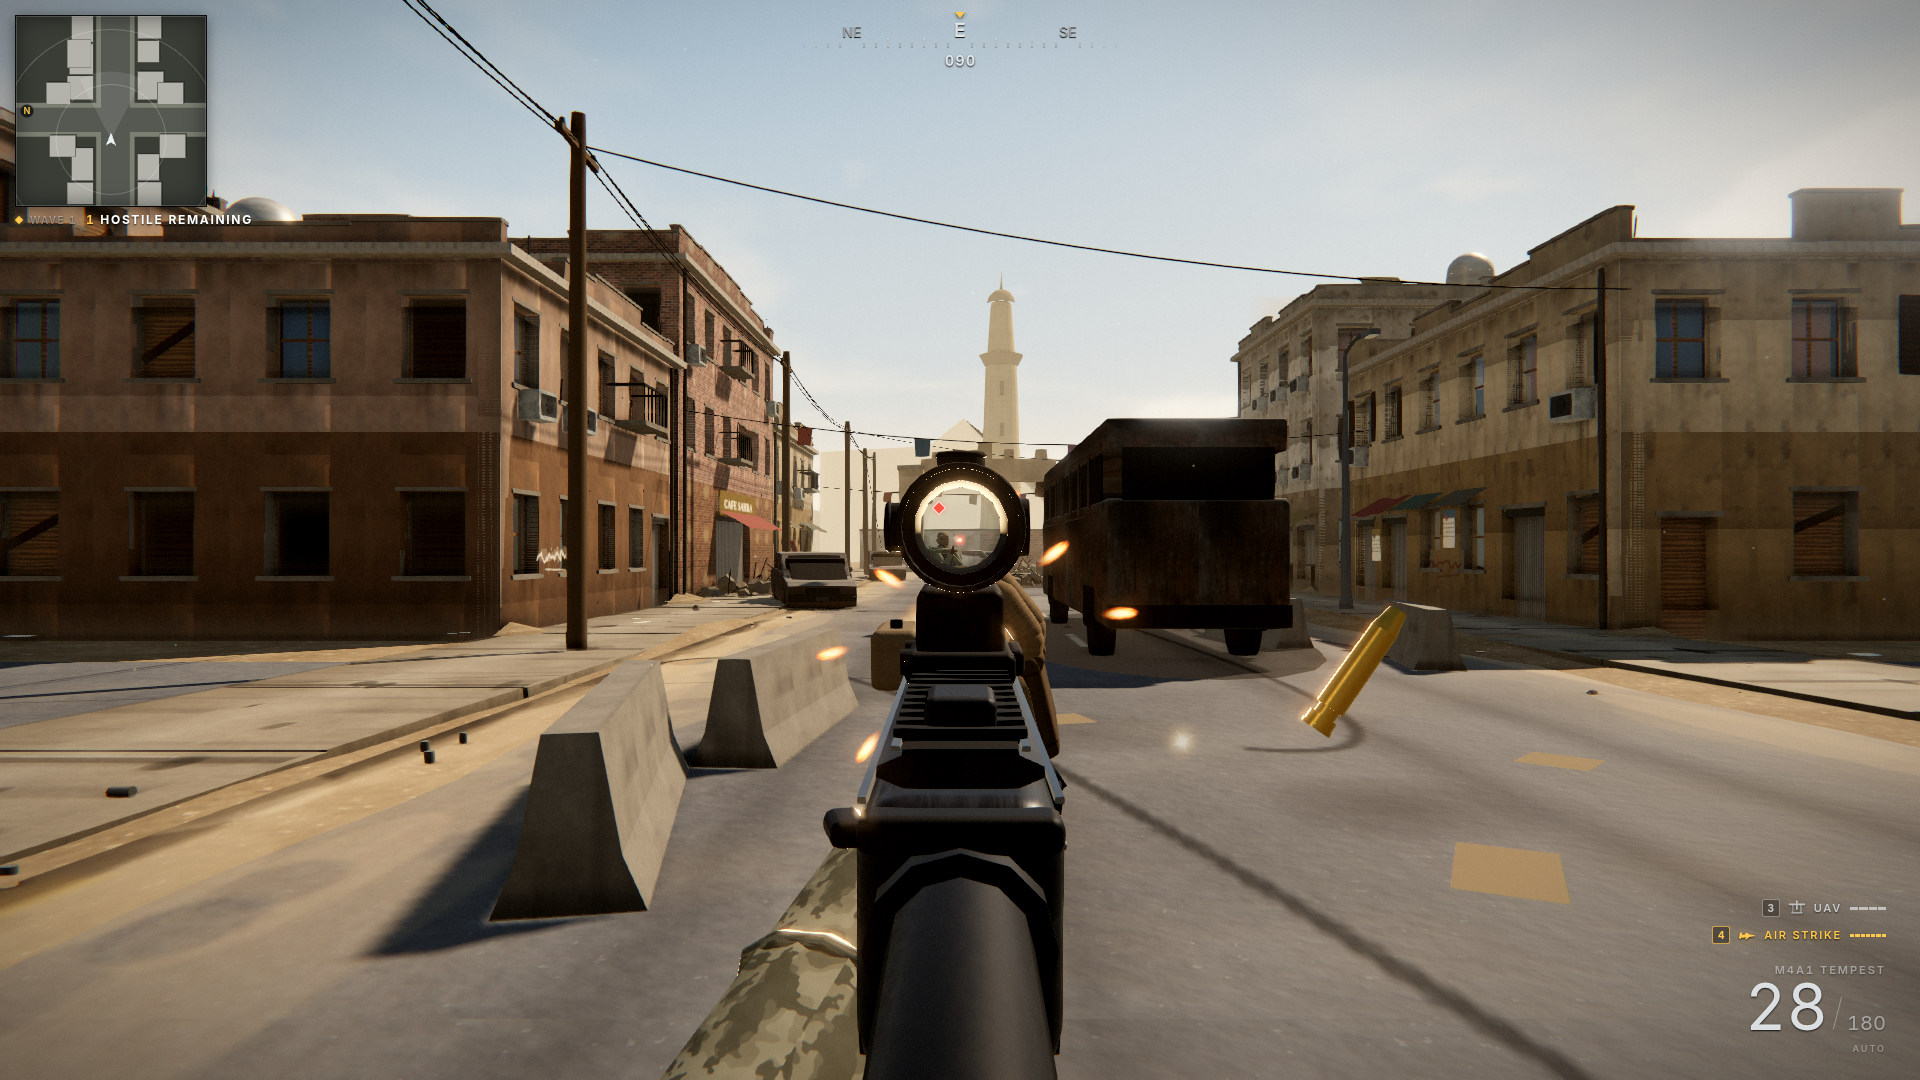
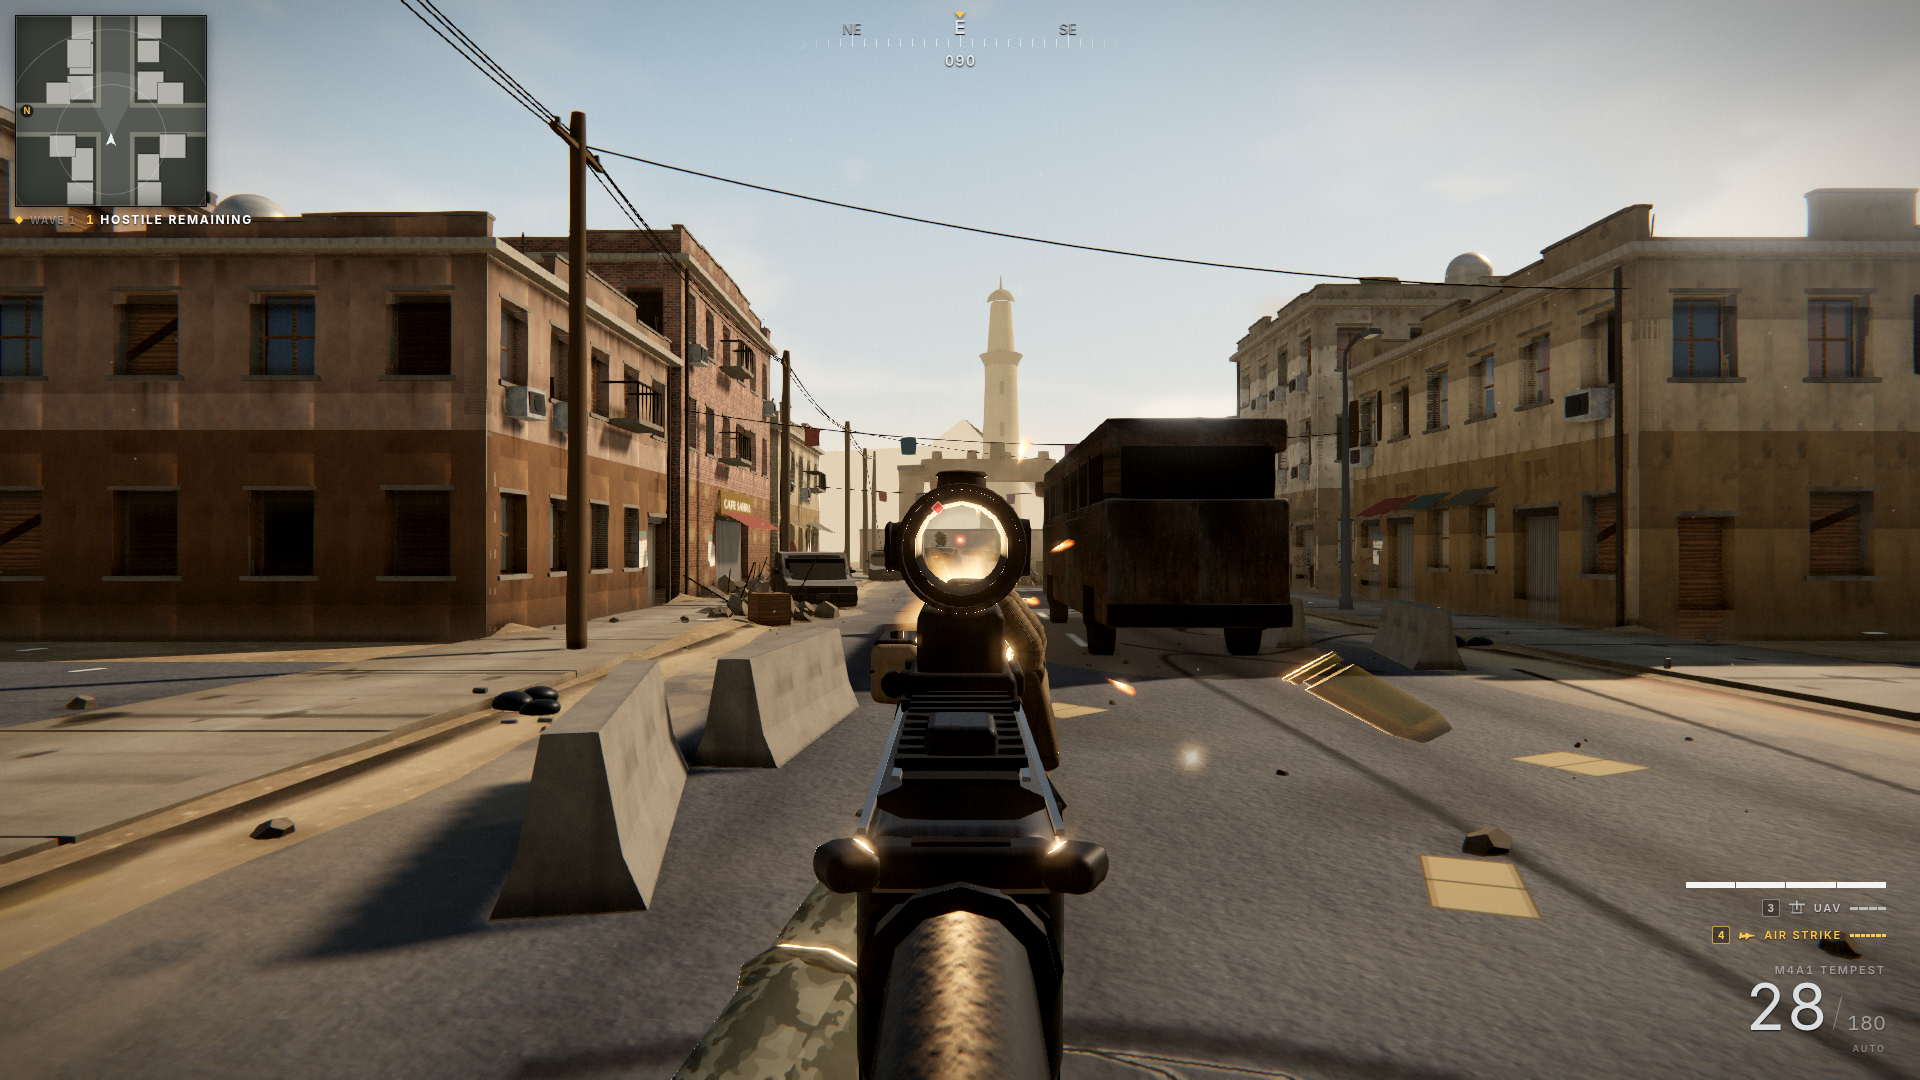
Near-camera fade for world smoke/fire pools, photo-safe killfeed lifecycle, sunlit enemies staging

diff --git a/src/fx/particles.js b/src/fx/particles.js
@@ -25,9 +25,11 @@ const BILLBOARD_VERT = /* glsl */`
   varying float vAge;
   varying float vStretch;
   varying float vRand;
+  varying float vNear;
   uniform float uFogDensity;
   uniform float uVelStretch;
   uniform float uDt;
+  uniform float uNearFade;
   void main() {
     vUv = uv;
     vColor = aColor;
@@ -37,6 +39,9 @@ const BILLBOARD_VERT = /* glsl */`
     // randomness (alpha level, length jitter, bend) with no new attribute.
     vRand = fract(sin(aRot * 12.9898) * 43758.5453);
     vec4 mv = modelViewMatrix * vec4(aCenter, 1.0);
+    // Opt-in near-camera fade: a smoke/fire sprite drifting through the
+    // camera must dissolve, not wash the whole frame with a salmon film.
+    vNear = mix(1.0, smoothstep(1.1, 3.2, length(mv.xyz)), uNearFade);
     vec2 corner;
     if (abs(aStretch) > 0.001) {
       // Elongate along the particle's CURRENT screen-space velocity, so
@@ -101,6 +106,7 @@ const BILLBOARD_FRAG = /* glsl */`
   varying float vAge;
   varying float vStretch;
   varying float vRand;
+  varying float vNear;
 
   // Blackbody-ish ramp: soot -> deep ember red -> 2000K orange -> hot
   // yellow -> a WHITE-HOT core pushed well past 1.0, so the inner ~25% of
@@ -139,6 +145,7 @@ const BILLBOARD_FRAG = /* glsl */`
       col = t.rgb * vColor.rgb;
       a = t.a * vColor.a;
     }
+    a *= vNear;
     if (abs(vStretch) > 0.001) {
       // Per-streak alpha level + broken lengthwise modulation: every streak
       // carries its own patchy density, never one solid ruler line.
@@ -172,6 +179,7 @@ export class ParticlePool {
     capacity = 256, additive = false, premultiplied = false,
     renderOrder = null, fogDensity = 0.0062, fogColor = 0xc9b490,
     upright = false, erode = false, velStretch = false, fireRamp = false,
+    nearFade = false,
   } = {}) {
     this.capacity = capacity;
     // Upright pools (vertically shaded smoke) keep spawn rotation near zero
@@ -234,6 +242,7 @@ export class ParticlePool {
         uErode: { value: erode ? 1 : 0 },
         uFireRamp: { value: fireRamp ? 1 : 0 },
         uVelStretch: { value: velStretch ? 1 : 0 },
+        uNearFade: { value: nearFade ? 1 : 0 },
         uDt: { value: 1 / 60 },
       },
       transparent: true,
@@ -911,12 +920,12 @@ export class FX {
     const big = quality !== 'medium';
     // Smoke draws over fire so fireballs get swallowed by their own smoke.
     // Vertically-shaded sprite + upright spawns: lit crowns, shadowed bellies.
-    this.smoke = new ParticlePool(scene, shadedSmokeCanvas(128, 7), { capacity: big ? 640 : 320, renderOrder: 12, upright: true, erode: true });
+    this.smoke = new ParticlePool(scene, shadedSmokeCanvas(128, 7), { capacity: big ? 640 : 320, renderOrder: 12, upright: true, erode: true, nearFade: true });
     // Fire pool renders through the blackbody ramp: white 30% core, 2000K
     // orange mid, soot rim, edges eaten by a rising noise threshold.
     // velStretch: ember quads re-orient along their CURRENT velocity every
     // frame and shorten as speed decays.
-    this.fire = new ParticlePool(scene, fireballCanvas(128, 9), { capacity: big ? 420 : 240, premultiplied: true, renderOrder: 11, velStretch: true, fireRamp: true });
+    this.fire = new ParticlePool(scene, fireballCanvas(128, 9), { capacity: big ? 420 : 240, premultiplied: true, renderOrder: 11, velStretch: true, fireRamp: true, nearFade: true });
     this.flash = new ParticlePool(scene, flashCoreCanvas(96), { capacity: 60, additive: true, renderOrder: 13 });
     // Player muzzle flash sprites render in the viewmodel pass (layer 1) so
     // the 50° weapon camera depth-sorts them against the gun.
@@ -932,7 +941,7 @@ export class FX {
     this.fireVM.mesh.layers.set(1);
     // Dedicated pool for airborne-debris dust trails so heavy strikes can't
     // starve the explosion smoke of instances.
-    this.debrisDust = new ParticlePool(scene, shadedSmokeCanvas(64, 11), { capacity: big ? 768 : 384, renderOrder: 12, upright: true, erode: true });
+    this.debrisDust = new ParticlePool(scene, shadedSmokeCanvas(64, 11), { capacity: big ? 768 : 384, renderOrder: 12, upright: true, erode: true, nearFade: true });
     // High-capacity ribbon pool for jet contrails and falling-bomb trails —
     // fast movers need dense sub-stepped puffs that would starve the main
     // smoke pool. Non-upright so velocity-stretched segments work.

diff --git a/src/photo/photomode.js b/src/photo/photomode.js
@@ -104,15 +104,17 @@ const SCENARIOS = {
     };
   },
 
-  /* Soldier close-up for character review (sun on their faces). */
+  /* Soldier close-up for character review (sun on their faces). The macro
+     shadow mass covers the south half of the road, so the trio is staged
+     north of z~2.5 to stay in the lit value group. */
   enemies: (g) => {
     g.deployForPhoto();
-    g.player.spawnAt(new THREE.Vector3(31, 0, 0.5), Math.PI / 2 + 0.1);
+    g.player.spawnAt(new THREE.Vector3(31, 0, 3.4), Math.PI / 2 + 0.06);
     g.player.pitch = 0.01;
     g.enemies.frozen = true;
-    const a = g.enemies.spawnOne(new THREE.Vector3(24.2, 0, 3.2), 0);
-    const b = g.enemies.spawnOne(new THREE.Vector3(22.6, 0, 2), 1);
-    const c = g.enemies.spawnOne(new THREE.Vector3(25, 0, -1), 2);
+    const a = g.enemies.spawnOne(new THREE.Vector3(24.2, 0, 6), 0);
+    const b = g.enemies.spawnOne(new THREE.Vector3(22.6, 0, 4.6), 1);
+    const c = g.enemies.spawnOne(new THREE.Vector3(25, 0, 2.8), 2);
     a.enterCombat(); b.enterCombat(); c.enterCombat();
     // Pin poses for a stable review shot: two standing bladed, one kneeling.
     a.crouchTarget = 0; a.duckT = 99;

diff --git a/src/ui/hud.js b/src/ui/hud.js
@@ -516,8 +516,12 @@ export class HUD {
       : `<span class="kf-a">${a}</span><span class="kf-gun" role="img" aria-label="${weapon}" title="${weapon}">${KF_GUN_ICON}</span><span class="kf-b">${b}</span>`;
     this.killfeedEl.prepend(row);
     while (this.killfeedEl.children.length > 5) this.killfeedEl.lastChild.remove();
-    setTimeout(() => row.classList.add('fade'), 4200);
-    setTimeout(() => row.remove(), 5000);
+    // Wall-clock lifecycle — but photo mode batches sim frames over ~40s of
+    // real time, so timeouts would erase the feed before the capture frame.
+    if (!window.__PHOTO_MODE) {
+      setTimeout(() => row.classList.add('fade'), 4200);
+      setTimeout(() => row.remove(), 5000);
+    }
   }
 
   scorePopup(points, label = null) {
